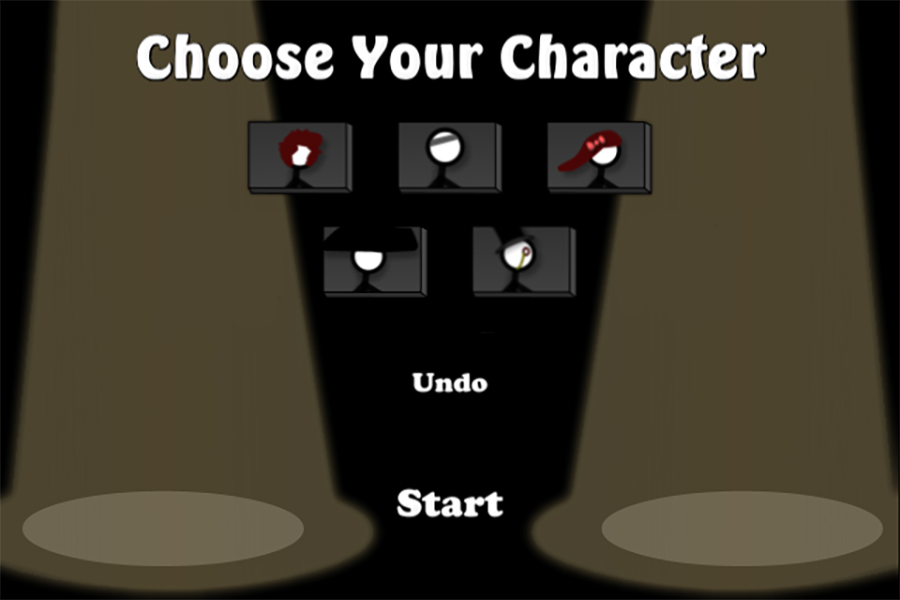
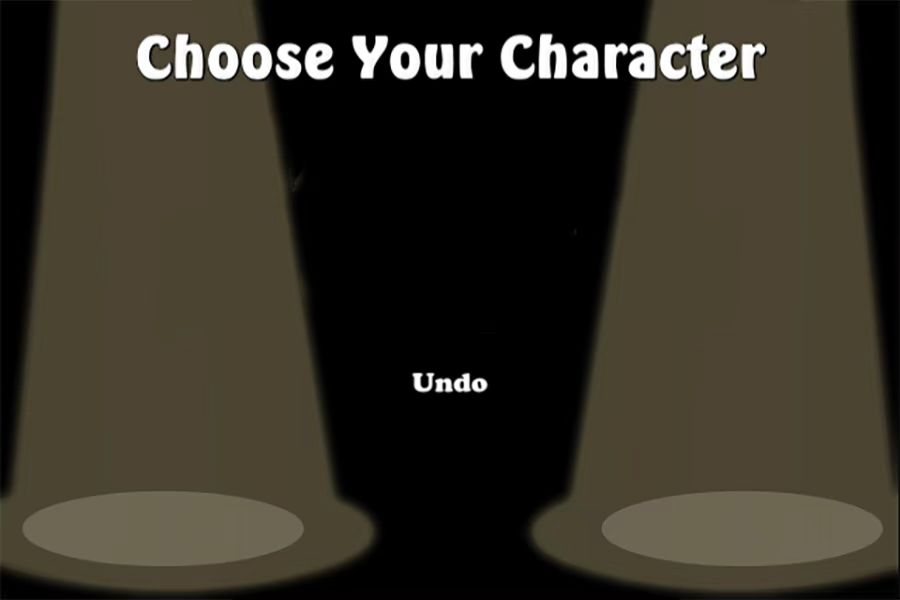
选人界面完成

diff --git a/src/main/java/org/stickbadminton/gamecomponent/RoomStickmanSelect.java b/src/main/java/org/stickbadminton/gamecomponent/RoomStickmanSelect.java
@@ -8,7 +8,18 @@ import javafx.util.Duration;
 import org.stickbadminton.GameObject;
 import org.stickbadminton.Room;
 
+import java.util.List;
+
 public class RoomStickmanSelect extends Room{
+    private int team1;
+    private int team2;
+
+    private UIDigitView view1;
+    private UIDigitView view2;
+
+    // 当前选择的队伍
+    private boolean isTeam1Selecting = true;
+
     public RoomStickmanSelect(){
         // 选人界面
         // 背景、按钮等素材已存在resources文件夹中
@@ -19,5 +30,62 @@ public class RoomStickmanSelect extends Room{
         // undo按钮(放start按钮上面，和start按钮居中对齐):button_undo.png
         // 按钮物件用写好的 UIImageButton 类，具体用法见 Room1
         // 先别管选好的人怎么显示，两边用 UIDigitView 代替，显示数字编号 1 到 5
+        addObject(new GameObject("background",new Image("stickmanselect_background.png")));
+        UIImageButton startButton=new UIImageButton("button_start.png");
+        addUiObject(startButton, 380, 480);
+        startButton.setOnAction(e->{
+            if(team1!=0&&team2!=0) {
+                Room1 room1 = new Room1();
+                this.leave();
+                room1.enter();
+            }
+        });
+        UIImageButton undoButton=new UIImageButton("button_undo.png");
+        addUiObject(undoButton, 400, 350);
+        undoButton.setOnAction(e->onUndoButtonClick());
+        addCharacterButton(1,420,120);
+        addCharacterButton(2,320,120);
+        addCharacterButton(3,520,120);
+        addCharacterButton(4,370,220);
+        addCharacterButton(5,470,220);
+
+
+        view1=new UIDigitView();
+        view2=new UIDigitView();
+        addUiObject(view1,150,400);
+        addUiObject(view2,720,400);
+
+
+    }
+    private void addCharacterButton(int characterId, int x, int y) {
+        UIImageButton button = new UIImageButton("selectbutton_" + characterId + ".png");
+        button.setOnAction(e-> onCharacterSelect(characterId));
+        addUiObject(button, x, y);
+    }
+    private void onCharacterSelect(int characterId){
+        // 根据当前队伍添加到对应列表
+        if (isTeam1Selecting) {
+            team1=characterId;
+            isTeam1Selecting=false;
+            updateDigitViews();
+        } else {
+            team2=characterId;
+            updateDigitViews();
+        }
+    }
+    //撤销上一次
+    private  void onUndoButtonClick() {
+        if (isTeam1Selecting && team1 != 0) {
+            team1 = 0;
+            updateDigitViews();
+        } else if (!isTeam1Selecting && team2 != 0) {
+            team2 = 0;
+            updateDigitViews();
+        }
+
+    }
+    private void updateDigitViews(){
+        view1.setCurrentNumber(team1);
+        view2.setCurrentNumber(team2);
     }
 }
